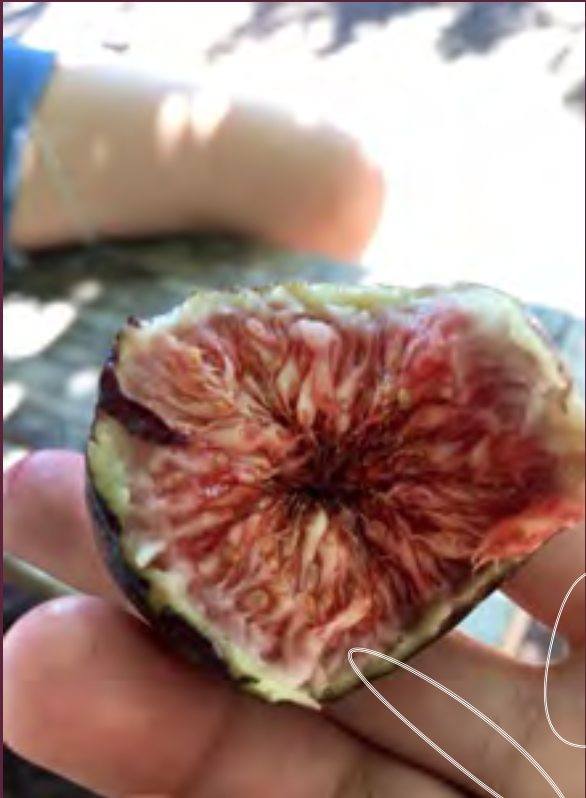
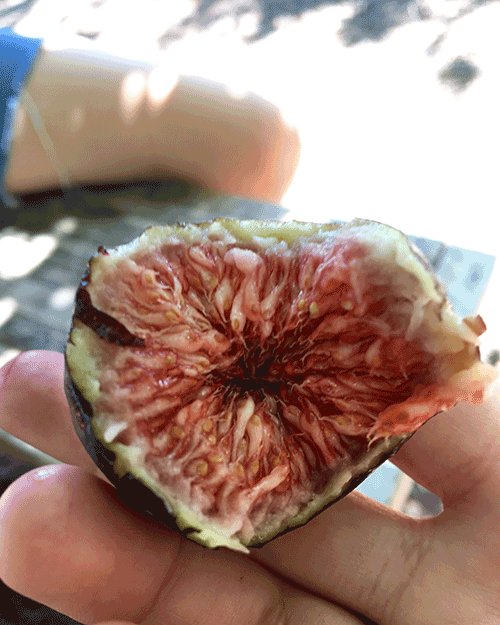
Use new photos

diff --git a/index.html b/index.html
@@ -219,9 +219,9 @@
     <div class="title"><h1>Letter from the Editors</h1></div>
     <div class="content-wrapper">
       <div id="photos">
-        <img src="img/hans_img/ledditor_1.png" />
-        <img src="img/hans_img/ledditor_2.png" />
-        <img src="img/hans_img/ledditor_3.png" />
+        <img src="img/hans_img/ledditor_1.png" alt="Tea brewing" />
+        <img src="img/hans_img/ledditor_2.png" alt="Journal on picnic table" />
+        <img src="img/hans_img/ledditor_3.png" alt="White shoes" />
       </div>
       <div id="letter">
         <p>This week, queerness is our core. For many of us&mdash;on the <span class="italic">Observer</span>, on this campus, and in the world&mdash;queerness exists at the nucleus of our being. But unfortunately in the world we live in today, rarely do we see queerness being centered. This week, we want to push against this de-centering of&mdash;quite simply&mdash;us. We&rsquo;re thinking about the ways that we have been asked to shrink ourselves, to split ourselves, to mold ourselves into what this world says we should be instead of what we are. We&rsquo;re thinking about how to work against years of erasure, of the traumas of repeated violence against us and those who look like us. We&rsquo;re thinking about how we can imagine something greater for ourselves, our loved ones, and our communities.</p>
@@ -239,7 +239,7 @@
         <h1>What is Poverty?</h1>
         <h2>By Jo Gottfried</h2>
       </div>
-      <img id="intro-image" src="img/hans_img/poverty_1.jpg" />
+      <img id="intro-image" src="img/hans_img/poverty_1.jpg" alt="Kids playing with trucks" />
         <div id="text">
           <div id="background-box"></div>
           <div class="sub-item">
@@ -252,7 +252,7 @@
             </div>
           </div>
           <div class="sub-item">
-            <img src="img/hans_img/poverty_2.jpg" />
+            <img src="img/hans_img/poverty_2.jpg" alt="Kids playing in yard" />
             <div class="sub-text">
               <p>Poverty is the erasure of your existence by politicians who swear to advocate for the middle class, an elite group you to which you could never imagine belonging.</p>
               <p>Poverty is the shame and humiliation of having your best friend sit there awkwardly and watch your family eat dinner because there isn&rsquo;t a scrap of food to spare in the house. It&rsquo;s the hesitation of inviting your friends over again, but after two weeks of only seeing your brother and your mother, you can&rsquo;t stand it any longer and you give in and call your friend up and say come over after lunch and they know that means leave before dinner.</p>
@@ -274,7 +274,7 @@
               <p>Poverty is oscillating between being terrified of, and in complete performative denial of your sexuality for over a decade of your life. It's waiting until you're in a place with enough wealthy liberals to feel normal, it's finally reaching a point where you&rsquo;re so good at hiding your class status and looking and acting normal that being queer doesn't make you even more of an outsider. (Actually, at this point, you're an outsider because you dress aggressively middle-class in a swarm of wealthy people trying to dress poor.) It's thinking back and not wishing you had come out earlier because you got enough shit in high school for wearing the &ldquo;wrong&rdquo; clothes, and hanging out with the &ldquo;wrong&rdquo; kids, without needing to add being a &ldquo;weirdo-lesbian&rdquo; to the fuel&mdash;even though almost everyone could very clearly see your disgust with boys as a concept.</p>
               <p>Poverty is the instant connection you feel when you realize that a fellow human knows this pain, a bond strong enough that when your first year of college starts, you&rsquo;re still friends with the girl you met for two days back in April, and only get closer from there. It&rsquo;s spending hours offering advice to an incoming freshman, a complete stranger from a similar background, and smiling at random strangers who you know are connected to a student organization for people like you. After all, if we don&rsquo;t watch out for each other, nobody will.</p>
             </div>
-            <img src="img/hans_img/poverty_3.jpg" />
+            <img src="img/hans_img/poverty_3.jpg" alt="Kids exploring flowers" />
           </div>
         </div>
     </div>
@@ -285,12 +285,12 @@
       <h1>figs</h1>
       <h2>By Gabriela Bonfiglio</h2>
     </div>
-    <div class="fig-image" id="fig-1"><img src="img/hans_img/figs_1.png" /></div>
-    <div class="fig-image" id="fig-2"><img src="img/hans_img/figs_2.png" /></div>
-    <div class="fig-image" id="fig-3"><img src="img/hans_img/figs_3.png" /></div>
-    <div class="fig-squiggle" id="squiggle-1"><img src="img/hans_img/fig_squiggle.png" /></div>
-    <div class="fig-squiggle" id="squiggle-2"><img src="img/hans_img/fig_squiggle.png" /></div>
-    <div class="fig-squiggle" id="squiggle-3"><img src="img/hans_img/fig_squiggle.png" /></div>
+    <div class="fig-image" id="fig-1"><img src="img/hans_img/figs_1.png" alt="Looking at figs in hand" /></div>
+    <div class="fig-image" id="fig-2"><img src="img/hans_img/figs_2.png" alt="Bitten fig" /></div>
+    <div class="fig-image" id="fig-3"><img src="img/hans_img/figs_3.png" alt="Smashed fig in hand" /></div>
+    <div class="fig-squiggle" id="squiggle-1"><img src="img/hans_img/fig_squiggle.png" alt="Decorative squiggle" /></div>
+    <div class="fig-squiggle" id="squiggle-2"><img src="img/hans_img/fig_squiggle.png" alt="Decorative squiggle" /></div>
+    <div class="fig-squiggle" id="squiggle-3"><img src="img/hans_img/fig_squiggle.png" alt="Decorative squiggle" /></div>
     <div class="content" id="fig-text">
       <p>
         you have been wanting figs all summer<br />
@@ -332,25 +332,30 @@
 
   <section id="name" class="cd-section">
     <div class="header-image">
-      <img id="top-image" src="img/hans_img/kel_hand.png" />
+      <img id="top-image" src="img/hans_img/notebook.png" alt="Writing in journal" />
     </div>
     <div class="content-wrapper">
       <div class="title-block">
-        <h1>What's in a Name</h1>
+        <h1>What's in a Name?</h1>
         <h2>By Kel Boland</h2>
       </div>
 
       <div class="content">
         <p>Though I was born a girl, the label has never quite fit me. For years I avoided thinking about my own gender, because I had neither the words to describe it nor the courage to label it. I would write off my confusion as typical. I genuinely convinced myself that all cis girls frequently wanted to look and act and be seen as a boy. Yet, as I discussed some of these feelings with my friends, I gradually realized that my gender was definitely not part of the cisgender experience. And so began the questioning.</p>
+        <br />
         <p>In the beginning, I tried everything in my power to understand gender analytically. I made color-coded charts. I drew Venn diagrams. I even used percentages that summed up how I felt on each day. However, my gender, fluid and flexible as it is, does not follow the basic rules of mathematics or any of the roles society assigns it, and for many years this frustrated me and drove me into a sinking sense of confusion and denial.</p>
+        <br />
         <p>Someone asked me recently what my gender means to me. In the early stages of my questioning, I would have been too hopeless to give a response. Now, nearly two years after going through the excruciating process of self-identification, I have a thousand answers. My gender is my foundation. It is the person I want to be. It is the way I see myself, alone in my room with my imagination running free. It is the taste of a question on my tongue and the hesitation I feel when a stranger asks me my name or pronouns. My gender is me, getting ready for school in the dark, because I cannot bear to look in the mirror. It is me, smiling without faking it when I see myself in my brother&rsquo;s old Henley, because after months of reflection, I have learned how to see myself truly.</p>
+        <br />
         <p>Along with the determination of my gender came the intrinsic impulse to achieve an ambiguous, androgynous appearance; I desperately desired a departure from femininity. Even before coming to Tufts, I had already started to mold the way I presented myself to align with the way I imagined myself. I started shopping in the men&rsquo;s section, I stopped wearing makeup, and I changed my pronouns. The only thing remaining was my name, which brought a whole new set of challenges. The first time I had to introduce myself on campus, I floundered, frozen with panic, and eventually settled for the brilliant solution of changing the topic instead ofaway from my name. After that, I just kept introducing myself with my birth name, because I didn&rsquo;t know what else to do.</p>
+        <br />
         <p>As the weeks passed, I became more and more dissatisfied; college was supposed to be my fresh start, and I was determined not to let my anxiety rule my decisions. A month in, I started asking people here to call me &ldquo;Kel.&rdquo; I have since been catapulted into a strange limbo where everyone in my immediate proximity uses my chosen name, but I still internally refer to myself as my birth name, simply out of habit. To add to this imbalance, I have not yet told my parents about my new name. Every time I call home, I hear my dad greet me with warmth surrounding the sound of my birth name, and I feel something akin to nostalgia. Somehow I can&rsquo;t bring myself to tell them, knowing that once I do, I may never again hear the name of my childhood, the name that carried so much of my personality and self-identity throughout adolescence. I find myself in a difficult dynamic, unhappy with my old name but unwilling to let go of familiarity.</p>
+        <br />
         <p>Despite the disequilibrium my name change has brought into my life, I cannot regret my new name, because it allows me to be the person I am without being so weighed down by the expectations and roles of my assigned gender. If there is anything I have learned throughout the course of my identity formation, it is that my gender will never sit still; rather, it will push me forward one step at a time as I learn how to be brave and bold in my self-expression. My name is only a small part of a much larger journey, and I know that in time, I will fill this empty name with memory and color and noise. Just as I have grown into my gender, I will grow into this new name&mdash;inch by inch, step by step, I will become the person I know myself to be.</p>
       </div>
     </div>
     <div class="header-image">
-      <img id="bott-image" src="img/hans_img/kel_hand.png" />
+      <img id="bott-image" src="img/hans_img/notebook.png" alt="Writing in journal" />
     </div>
   </section>
 

diff --git a/js/script_hans.js b/js/script_hans.js
@@ -4,19 +4,20 @@ jQuery(document).ready(function($) {
 
     // });
 
+// Potentially create window resize event that retriggers top positioning
     // Figs Parallax layout
     var fig_top = ($('#figs').offset()).top;
     //console.log(fig_top);
 
     var fig_txt_height = $('#fig-text').height();
-    var figs_height = fig_txt_height * 2.1;
+    var figs_height = fig_txt_height * 2.2;
     $('#figs').css('height', figs_height);
 
     $('.fig-image').css('top', fig_top);
     //console.log(figs_height/3);
     var fig1_top = fig_top + (figs_height/6);
     var fig2_top = fig_top + (figs_height/2.5);
-    var fig3_top = fig_top + (figs_height - (figs_height/4));
+    var fig3_top = fig_top + (figs_height - (figs_height/3.5));
 
     $('#fig-1').css('top', fig1_top);
     $('#fig-2').css('top', fig2_top);
@@ -24,7 +25,7 @@ jQuery(document).ready(function($) {
 
     var squig1_top = fig_top + (figs_height/7);
     var squig2_top = fig_top + (figs_height/2);
-    var squig3_top = fig_top + (figs_height/1.5);
+    var squig3_top = fig_top + (figs_height/1.3);
 
     $('#squiggle-1').css('top', squig1_top);
     $('#squiggle-2').css('top', squig2_top);
@@ -37,15 +38,15 @@ jQuery(document).ready(function($) {
         redrawDotNav();
     });
     function parallaxScroll() {
-        var scrolled = ($(window).scrollTop() - fig_top);
+        var scrolled = ($(window).scrollTop() - fig_top - 80);
         if (scrolled <= 0) {scrolled = 0};
         if (scrolled > (figs_height - fig_txt_height)) {scrolled = (figs_height - fig_txt_height)};
-        $('#fig-text').animate({top: (scrolled * .75) + 'px'}, 100); // Need to come up with test for this
-        $('#fig-1').animate({top: (fig1_top - (scrolled * .3)) + 'px'}, 100);
-        $('#fig-2').animate({top: (fig2_top - (scrolled * .4)) + 'px'}, 100);
-        $('#fig-3').animate({top: (fig3_top - (scrolled * .25)) + 'px'}, 100);
-        $('#squiggle-1').animate({top: squig1_top + 'px'}, 100);
-        $('#squiggle-2').animate({top: squig2_top + 'px'}, 100);
-        $('#squiggle-3').animate({top: squig3_top + 'px'}, 100);
+        $('#fig-text').css('top', (scrolled * .75) + 'px'); // Need to come up with test for this
+        $('#fig-1').animate({top: (fig1_top - (scrolled * .3)) + 'px'}, 1);
+        $('#fig-2').animate({top: (fig2_top - (scrolled * .4)) + 'px'}, 1);
+        $('#fig-3').animate({top: (fig3_top - (scrolled * .25)) + 'px'}, 1);
+        $('#squiggle-1').animate({top: squig1_top - (scrolled * .15) + 'px'}, 1);
+        $('#squiggle-2').animate({top: squig2_top + 'px'}, 1);
+        $('#squiggle-3').animate({top: squig3_top - (scrolled * .1)+ 'px'}, 1);
     }
 })

diff --git a/css/style_hans.css b/css/style_hans.css
@@ -29,7 +29,7 @@
     width: 20%;
     background-color: red;
 }
-#ledditor img {
+#ledditor img, #figs img, #name img, #poverty img {
     width: 100%;
 }
 #ledditor #letter {
@@ -111,6 +111,7 @@
     z-index: 0;
     width: 30vw;
     min-width: 200px;
+    max-width: 500px;
     height: auto;
 }
 #fig-2 {
@@ -147,23 +148,37 @@
     height: auto;
     max-width: 500px;
     margin: 0 auto;
-    padding: 2.5% 0;
+    padding: 5vh 0;
 }
 #name .header-image #top-image {
+    transform: rotate(180deg);
     -ms-transform: rotate(180deg); /* IE 9 */
     -webkit-transform: rotate(180deg); /* Chrome, Safari, Opera */
-    transform: rotate(180deg);
 }
 #name .content-wrapper {
     display: block;
     width: 90%;
     left: 10%;
-    padding: 5vh 10vw 5vh 5vw;
+    padding: 5vh 10vw 10vh 5vw;
     background-color: white;
 }
-
+#name .content {
+    width: 60vw;
+    margin: 0 auto;
+}
 
 /***** Media Queries *****/
 @media (max-width: 600px) {
-
+    #fig-1 {
+        right: -10vw;
+    }
+    #fig-2 {
+        right: -5vw;
+    }
+    #fig-3 {
+        right: -15vw;
+    }
+    .fig-squiggle {
+        opacity: .6;
+    }
 }
